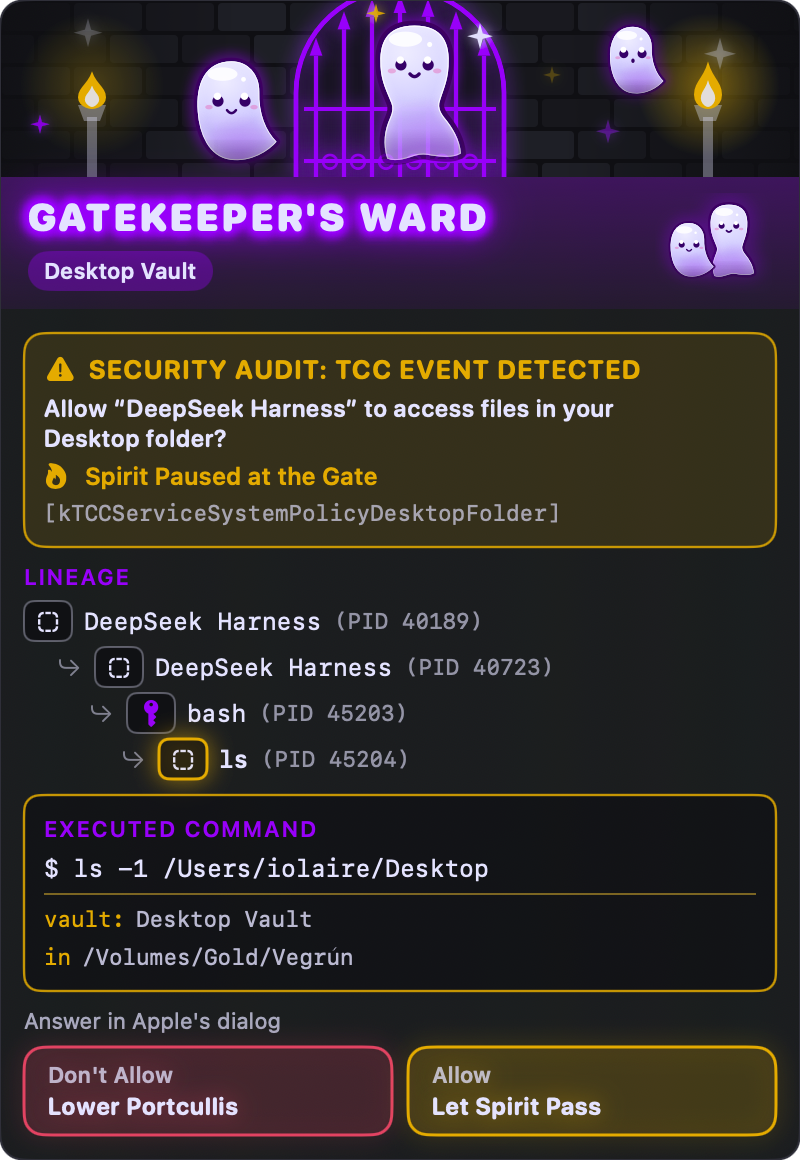
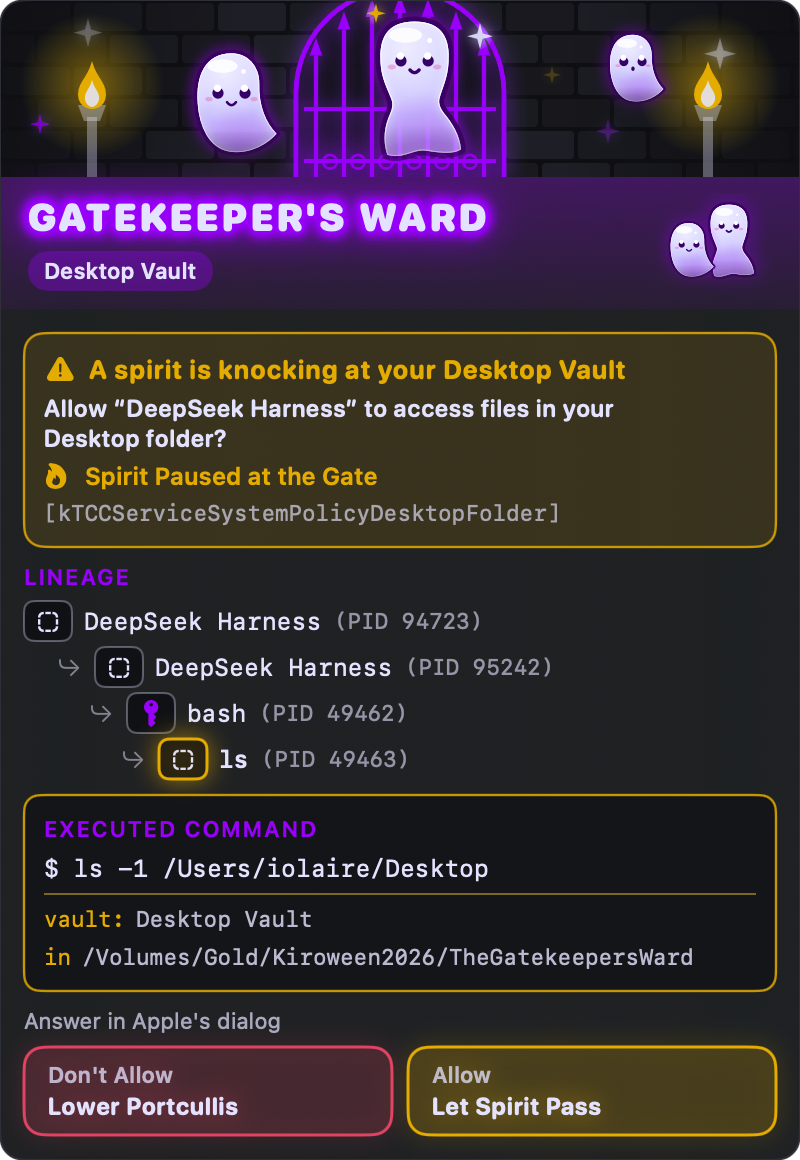
docs(demo): expand deepseek-harness documentation with env file captures and risk context
- Add env file capture manifests and screenshots for baseline and ward deepseek-harness scenarios
- Include credential file risk documentation and HUD comparison for suspicious command patterns
- Expand README with public context on Apple's tightening macOS permissions for AI agents
- Add "Why now" section documenting Nov 2026 Apple security controls, developer feedback, and enterprise concerns
- Update capture profiles, voiceover script, and narration for enhanced demo flow
- Clarify Ward's complementary role to Apple's upcoming granular permission controls
- Update Qoder microphone capture assets with latest manifest and HUD screenshots

diff --git a/docs/pitch.md b/docs/pitch.md
@@ -35,7 +35,7 @@ You're forced to **Allow** or **Don't Allow** blind.
 ├──────────────────────────────────────────────────────────────┤
 │ ⚠ Target: ~/Documents/Work/production.env   Spirit Paused   │
 │                                                              │
-│  [ Let Spirit Pass ]              [ Lower Portcullis ]       │
+│  Answer in Apple's dialog: Allow / Don't Allow               │
 └──────────────────────────────────────────────────────────────┘
 ```
 
@@ -45,9 +45,21 @@ You can now make an **informed** decision.
 
 ## Why It Matters Now (Potential Impact)
 
-Apple is working on finer-grained permissions that would give users more control over AI IDEs and agents, but that capability is not released yet. Until it ships, users have only the opaque TCC prompt. Gatekeeper's Ward fills that gap today, in unprivileged user space: no kernel extensions, no SIP changes, no restricted entitlements.
+Apple is tightening macOS permissions because of AI agents, and its new options (split permissions, folder-limited Full Disk Access, "ask every time") make users answer more prompts. Those prompts still name the app, not the command behind it. Gatekeeper's Ward gives each prompt the missing context, in unprivileged user space: no kernel extensions, no SIP changes, no restricted entitlements.
 
-It only informs. Apple's dialog keeps full control, and the user always answers with Apple's own **Allow** or **Don't Allow** button.
+**Inform-only is why teams can adopt it today.** It never blocks or modifies anything, so it cannot break a workflow or weaken a macOS security boundary. Installing it needs no system extension, no Endpoint Security entitlement and no SIP change, which is the kind of review that normally stalls a security tool. Apple's dialog keeps full control, and the user always answers with Apple's own **Allow** or **Don't Allow** button.
+
+### The problem is public, and Apple is responding
+
+| Signal | What it shows |
+|---|---|
+| Apple, macOS 27.3 beta 2 (Nov 16, 2026) | Device Control and Data Access splits in two, Full Disk Access can be limited to chosen folders, apps can be set to "ask every time". Apple: *"Before granting an app such extraordinary access, users should understand that it puts all of the data on their Mac at risk."* ([The Hacker News](https://thehackernews.com/2026/11/apple-tightens-macos-app-permissions-to.html), [TechCrunch](https://techcrunch.com/2026/11/16/apple-reveals-new-mac-security-controls-as-ai-agents-raise-privacy-risks/)) |
+| Still beta | Not in a general release. Users running agents today still get the opaque prompt. |
+| Developer discussion ([Hacker News, Oct 3](https://news.ycombinator.com/item?id=49937631)) | *"Granting terminal full disk access grants arbitrary scripts full disk access."* and *"It would be nice to limit that to a single use, or a single harness session."* |
+| Why the prompt is vague | TCC attributes a child's access to the app the user launched, so an `ls` run from a terminal appears as the terminal. The prompt cannot name the command. |
+| Enterprise and consumer concern | Broad disk access lets agents reach credentials, API keys and session tokens ([Petronella, Oct 5](https://petronellatech.com/blog/apple-plans-tighter-macos-full-disk-access-controls-over-ai-agent-data-access/)). A widely shared `r/mac` thread reports a desktop AI app listing local files including `.env` ([Jul 14](https://www.reddit.com/r/mac/comments/1uvxp9r/warning_new_chatgpt_mac_desktop_update_bypasses/)). |
+
+**Apple's changes make the Ward more useful, not less.** They decide how much access an app can hold, and "ask every time" will likely put more prompts in front of users. Based on the published descriptions, those prompts still do not say which command is behind them. Without the Ward, more prompts mean more blind clicks (prompt fatigue). With it, each prompt shows the lineage, `argv` and working directory. Apple also says previously granted permissions stay in effect, so existing grants keep needing this visibility.
 
 ### Real-device proof: DeepSeek Harness asks for the Desktop folder
 
@@ -65,7 +77,19 @@ With the baseline alone, a safe directory listing and a delete or exfiltration l
 
 ![Apple's prompt beside the Gatekeeper's Ward Fortress HUD](demo/assets/deepseek-harness/ward_deepseek_harness_desktop_pair.png)
 
-The same capture works for a second AI IDE and a different permission: Qoder asking for the Microphone ([pair shot](demo/assets/qoder/ward_qoder_microphone_pair.png)). The command there is a `swift -e` one-liner, so the HUD shows the compiler process rather than a readable command, but the lineage Qoder → zsh → swift-frontend still names the source.
+### Same kind of prompt, risky command: a credential file caught by the risk tags
+
+Apple's dialog has the same wording as in the benign case, only for the Documents folder. The agent ran `wc -c /Users/iolaire/Documents/temp_ai/vegurn/.env.prod.example`, and the HUD flags the path as a **CREDENTIAL FILE**, marks the spirit "Suspicious Spirit at the Gate", and highlights the path in Mischief Crimson. The command prints only a byte count, and the file is a `.example` template.
+
+![Apple's Documents prompt beside the Fortress HUD with a CREDENTIAL FILE risk tag](demo/assets/deepseek-harness/ward_deepseek_harness_env_file_pair.png)
+
+| | Benign (`ls` on Desktop) | Risky (`wc -c` on a `.env` file in Documents) |
+|---|---|---|
+| Apple's prompt | Desktop folder text | Documents folder text |
+| HUD status | Spirit Paused at the Gate | Suspicious Spirit at the Gate |
+| Risk tag | None | CREDENTIAL FILE, `.env.prod.example` highlighted |
+
+The same capture works for a second AI IDE and a different permission: Qoder asking for the Microphone ([pair shot](demo/assets/qoder/ward_qoder_microphone_pair.png)). Even though the request comes from an inline `swift -e` compiler run, the Ward traces the lineage Qoder → zsh → swift-frontend, so the user knows which app triggered the prompt. (Limits of this capture are in the technical notes at the end.)
 
 **Who benefits now:** developers running autonomous AI coding agents and IDEs (Kiro, Cursor, Claude Code, DeepSeek Harness), and any Mac user facing an unexpected permission popup from an app they barely recognize.
 
@@ -87,6 +111,7 @@ The process lineage tree shows each spirit carrying a contextual tool (🔍 for 
 | Zombie API | `sysctl KERN_PROCARGS2` — 20-year-old POSIX, resurrected |
 | Modern declarative | SwiftUI Fortress HUD |
 | System forensics | macOS Unified Log NDJSON streaming |
+| Risk triage | Heuristics that flag secret-hunting and exfiltration arguments in the command |
 | Target domain | Cutting-edge autonomous AI coding agents |
 
 This fits the *"stitch together a chimera of technologies"* prompt to the letter.
@@ -97,29 +122,35 @@ This fits the *"stitch together a chimera of technologies"* prompt to the letter
 
 ## Differentiators
 
+### Why nobody built this before: the core technical insight
+
+While a permission dialog is open, `tccd` does not answer the process that asked, so that process (and its parents) stays in the Darwin process table. The Ward reads `argv`, working directory and lineage from it with an unprivileged `sysctl(KERN_PROCARGS2)` call, with no race against a short-lived command. Tools that need to see brief CLI commands usually reach for Apple's Endpoint Security framework, which needs a restricted entitlement and a system extension. The prompt itself gives the Ward the window that framework would otherwise be used for. If the process has already exited, the HUD degrades to partial information with a note.
+
+The pipeline stitches four layers together: BSD buffer parsing (`KERN_PROCARGS2`), real-time Unified Log NDJSON streaming, risk triage of arguments (`.env`, `.pem`, `id_rsa`, `curl`, `base64`) and a non-activating SwiftUI `NSPanel` overlay. Risk triage is what turns a process viewer into a decision aid.
+
 ### How it compares to existing tools
 
 Gatekeeper's Ward does one narrow job: when a TCC prompt is on screen, it shows the command behind it. The tools below solve neighboring problems, and several can block things that the Ward only reports.
 
-| | Apple's TCC prompt | Little Snitch | Santa | Objective-See (LuLu, OverSight) | `log stream` by hand | **Gatekeeper's Ward** |
-|---|---|---|---|---|---|---|
-| Main job | Ask the user to allow a protected resource | Network connection firewall | Allow or block binary execution | Firewall, camera and mic use alerts, persistence checks | Read raw system logs | Explain who is behind a TCC prompt |
-| Reacts to a TCC prompt | Is the prompt | No | No | No (OverSight reports camera and mic use, not the prompt) | Yes, if you know the predicate | **Yes** |
-| Shows the child command, args and cwd | No (app name only) | No | Shows the binary, not the prompt context | No | No, needs `ps` and `lsof` follow-up | **Yes** |
-| Shows the process lineage | No | No | No | No | No | **Yes** |
-| Flags risky arguments (`.pem`, `.env`, `curl`) | No | No | No | No | No | **Yes** |
-| Can block | Yes, the user decides | Yes | Yes | Yes (LuLu) | No | No, it informs only |
-| Needs a kernel or system extension, or restricted entitlement | No | Yes (network extension) | Yes (Endpoint Security) | Yes for most | No | **No** |
+| | Apple's TCC prompt | Little Snitch | Santa | Objective-See (LuLu, OverSight) | `log stream` by hand | Agent guardrails (IDE hooks, agent permission prompts, MCP gateways) | **Gatekeeper's Ward** |
+|---|---|---|---|---|---|---|---|
+| Main job | Ask the user to allow a protected resource | Network connection firewall | Allow or block binary execution | Firewall, camera and mic use alerts, persistence checks | Read raw system logs | Gate or log the actions an agent routes through its own tool layer | Explain who is behind a TCC prompt |
+| Reacts to a TCC prompt | Is the prompt | No | No | No (OverSight reports camera and mic use, not the prompt) | Yes, if you know the predicate | No | **Yes** |
+| Shows the child command, args and cwd | No (app name only) | No | Shows the binary, not the prompt context | No | No, needs `ps` and `lsof` follow-up | Only what a cooperating agent reports | **Yes** |
+| Shows the process lineage | No | No | No | No | No | No | **Yes** |
+| Flags risky arguments (`.pem`, `.env`, `curl`) | No | No | No | No | No | Varies, only for tool calls it sees | **Yes** |
+| Can block | Yes, the user decides | Yes | Yes | Yes (LuLu) | No | Yes, for supported agents | No, it informs only |
+| Needs a kernel or system extension, or restricted entitlement | No | Yes (network extension) | Yes (Endpoint Security) | Yes for most | No | No | **No** |
 
-*Summary based on each project's public documentation. Verify a row before quoting it elsewhere.*
+*Based on each project's public documentation.*
 
+**Agent-agnostic and OS-boundary native.** Agent guardrails only see what a cooperating, supported agent routes through them. The Ward watches the macOS boundary instead, so it covers Cursor, Claude Code, Kiro, DeepSeek Harness, a script run from a package install hook, or an unvetted MCP server, whenever the process touches a TCC-protected resource and the prompt appears.
 
-- **No kernel extension required** — pure userspace, ships as a notarised `.app`
+- **No kernel extension required** — pure userspace Swift `.app` that builds from source with zero restricted entitlements
 - **No SIP bypass** — zero security compromise required to install or run
 - **Open source** — developers can audit and trust it
 - **Zero config** — install, launch, done
 - **Real-time** — HUD appears the instant the permission dialog fires, not after
-- **Process suspension insight** — `tccd` blocks the child process thread while waiting; the process is frozen in the table, so `sysctl` inspection is always reliable
 
 ---
 
@@ -150,9 +181,17 @@ Gatekeeper's Ward does one narrow job: when a TCC prompt is on screen, it shows 
 |---|---|---|
 | 0:00–0:35 | AI agent running + opaque TCC modal | *"Modern agents work fast but macOS blinds us. You're forced to guess."* |
 | 0:35–1:15 | Same trigger — Fortress HUD slides in alongside Apple's dialog | *"Gatekeeper's Ward unmasks the intruder instantly."* |
-| 1:15–2:00 | Code walkthrough: `sysctl KERN_PROCARGS2` + Unified Log | *"Zero dark magic. No kernel extensions. We resurrect 20-year-old POSIX APIs."* |
+| 1:15–2:00 | Code walkthrough: `sysctl KERN_PROCARGS2` + Unified Log. Then a 10–15 s Kiro beat: `.kiro/specs/` folders, hooks, steering, and the property-based tests on the `KERN_PROCARGS2` and log parsers passing | *"Zero dark magic. No kernel extensions. We resurrect 20-year-old POSIX APIs. Specs, hooks and property-based tests built it with Kiro."* |
 | 2:00–2:35 | Menu bar ghost, history dropdown, risk tags on suspicious args | *"Full lineage tree, process history, automatic risk tagging."* |
-| 2:35–3:00 | Impact: before/after pair, Apple's finer-grained permissions not shipped yet, Apache 2.0 repo link | *"Apple's finer-grained agent permissions aren't here yet. The Ward is. Know who knocks before you drop the castle gates."* |
+| 2:35–3:00 | Impact: before/after pair, Apple's macOS 27.3 beta controls (still unreleased) answer how much access, the Ward answers which command, Apache 2.0 repo link | *"Apple is tightening agent permissions, and it is still in beta. Even then, the prompt will not tell you which command is asking. The Ward does. Know who knocks before you drop the castle gates."* |
+
+---
+
+## Technical notes and limits
+
+- The Qoder Microphone capture runs through an inline `swift -e` compiler, so the HUD shows the compiler process (`swift-frontend`) instead of a readable command. The lineage still identifies Qoder.
+- Parsing depends on TCC log wording, which changes between macOS versions. A regex fallback on `eventMessage` covers wording drift. The real-device captures come from one macOS version.
+- The Ward informs only. It cannot press or block Apple's buttons.
 
 ---
 

diff --git a/docs/devlog.md b/docs/devlog.md
@@ -3,6 +3,18 @@
 Running notes from the build. Newest entries at the top.
 
 ---
+## 2026-11-23 (14:45 UTC) — Day 19: Recaptured DeepSeek Desktop and Qoder Microphone with the current HUD
+**iolaire (pairing with Kiro)**
+Re-ran `deepseek-harness desktop` (baseline and Ward) and `qoder microphone` so the README and pitch images show the current HUD ("Answer in Apple's dialog" footer, plain-language header). The Qoder Ward run took several tries. In an old Qoder chat, the agent had saved a note that `swift -e` microphone probes return false and ran the command in the background, which returned `false` with no prompt. The run that worked started from a fresh task in the TheGatekeepersWard workspace, opened by hand. On that screen, the framework's `find:text area` search took about 80 s, probably because of the sessions heatmap, but it finished. Prompt detection recorded 16×14 bounds (likely the "?" button), and the full-screen shot was taken before the HUD appeared, so the published `pair.png` was cropped wrongly. It was replaced with a frame from that run's `flow.mov` at 83 s, cropped to the prompt and HUD. The pair is a real frame from the same session, not a composite. The local `ward_qoder_microphone_screen.png` (gitignored) is now the full 83 s frame. The Qoder baseline from this round was unusable: a second DeepSeek Desktop prompt stayed on screen for the whole recording, so the framework saved DeepSeek's dialog as Qoder's baseline. The baseline prompt shot and manifest were restored from git (the Nov 22 capture). A baseline shows only Apple's prompt, so the HUD update does not affect it. The local baseline `flow.mov` and `_screen.png` are still the bad ones and should not be used for the video. Follow-ups: tighten prompt-bounds detection in `scripts/capture/lib/runner_steps.sh` to ignore tiny child elements, and decide whether the Qoder profile should open a new task automatically.
+---
+## 2026-11-23 (13:05 UTC) — Day 19: Risk-tag capture with DeepSeek Harness
+**iolaire (pairing with Kiro)**
+Added an `env-file` risk-tag scenario to `scripts/capture/profiles/deepseek-harness.profile` and ran it end to end (baseline, then Ward). An earlier `ls -1 ~/.aws ~/Desktop` attempt showed a SECRET PATH tag but needed Desktop to raise the prompt, because `~/.aws` is not TCC-protected, so it was dropped. The scenario runs `wc -c` on `~/Documents/temp_ai/vegurn/.env.prod.example`: one path in a protected folder, flagged CREDENTIAL FILE. An `ls -l` on a single file raised no prompt, because `stat` is not gated by TCC, so the scenario uses `wc -c`, which opens the file and prints only a byte count. A first Ward run put the HUD on the portrait display; moving the pointer to the main display before the run fixed it. The README and pitch use the `env-file` pair. The framework required stopping a dev-build Ward that was already running. The capture was on macOS 27.2.1.
+---
+## 2026-11-23 (12:50 UTC) — Day 19: Impact messaging tied to Apple's macOS 27.3 beta
+**iolaire (pairing with Kiro)**
+Added a "Why now" section to the README Potential Impact text and a matching signals table to `docs/pitch.md`. It cites Apple's Nov 16 macOS 27.3 beta 2 controls (split permissions, folder-limited Full Disk Access, "ask every time"), the Hacker News Full Disk Access thread, and the enterprise and Reddit coverage. The demo-flow closing line now says Apple's controls are still in beta and do not name the command behind a prompt. The Hacker News article and thread were fetched and the Apple quote and two commenter quotes match. The TechCrunch, Petronella and Reddit links are cited from the research notes and were not re-fetched. The claim that Apple's beta does not show the command is worded "based on the published descriptions" because it has not been tested on a 27.3 machine. Second pass on the pitch from review feedback: Apple's changes are framed as raising the Ward's value (more prompts, same missing context), inform-only is framed as the reason it can be adopted today, the Process-suspension insight is now its own "core technical insight" block, the comparison table gained an agent-guardrails column, the ASCII mockup no longer shows clickable buttons, the unverified "notarised" claim was replaced, the Qoder caveat moved to a technical-notes section, and the demo flow has a Kiro beat. Still to do: capture a real risky-command prompt (for example `rg` on a `.env` file), update `docs/demo/remotion/src/narration.json` and `VOICEOVER.md` scene 1 and the closing scene to match, then re-render the audio.
+---
 ## 2026-11-23 (04:00 UTC) — Third-party names notice
 
 **iolaire (pairing with Kiro)**
@@ -154,9 +166,18 @@ Closed the open question of whether Gemini-generated images may ship in the proj
 
 ---
 
+## 2026-11-21 (17:37 UTC) — Day 17: Dharshaneshwaran makes the HUD copy plain language
+**Dharshaneshwaran (pairing with Kiro)**
+Four commits on `feature/hud-plain-language-copy` (17:23 to 17:37 UTC) closed the open item from the Day 6 notes: a clearer title than "TCC EVENT DETECTED" for people who do not know the term. The branch was merged into `main` on Nov 23 (02:30 UTC, `79e4573`).
+- **Spec first.** `.kiro/specs/hud-plain-language-copy` (requirements, design, tasks) was written before the code (`a63efa2`). It amends requirements 3.3 and 3.7 of `castle-keep-visual-theme`, and only changes displayed text and layout. Detection, inspection and risk tagging are untouched.
+- **Banner title.** The amber banner now reads "A spirit is knocking at your Documents Vault", built from `TCCService.vaultName` for every service, including "Unknown Vault" (`e17fdc1`). The title wraps to a second line instead of dropping below 11 pt.
+- **Risk reasons.** The Risk Legend changed from a wrapped row of crimson chips to one line per category, each with a short reason, such as "Can send data off your Mac." for a network tool (`2c548c5`). Every reason is at most 40 characters so it fits on one line at the 400 pt card width. The VoiceOver label reads each category with its reason.
+- **Docs.** The UI copy table in `.kiro/steering/swiftui-hud-design.md` and the `castle-keep-visual-theme` spec list the new title and reasons. The README screenshot was refreshed to show both (`be3e747`).
+- **Tests.** New cases in `HUDContentTests` and `HUDSectionTests` cover the title and the legend rows.
+---
 ## 2026-11-20 (08:00 UTC) — Day 16: Dharshaneshwaran re-runs the hackathon review and fixes the README
 
-**Dharshaneshwaran**
+**Dharshaneshwaran (pairing with Kiro)**
 
 Two docs-only commits arrived through PR #2 (`dev` into `main`). The first re-ran the `/code-review-hackathon` prompt and refreshed `docs/HACKATHON_REVIEW.md`. The second fixed the README items that review flagged.
 
@@ -348,7 +369,7 @@ The 14:06 UTC entry below lists these items as open follow-ups; that was true wh
 
 ## 2026-11-09 (14:06 UTC) — Day 5: Dharshaneshwaran's branch meets main
 
-**Dharshaneshwaran**
+**Dharshaneshwaran (pairing with Kiro)**
 
 While iolaire was adding eight triggers to WardTrigger on `main`, the `dev` branch was still on the three-service parser. Dharshaneshwaran merged `main` into `dev` and found the HUD no longer compiled: `TCCService` had gained cases for Downloads, Calendar, Reminders, Photos, Camera and Screen Capture, and the HUD's vault-name `switch` is exhaustive. Dharshaneshwaran added the six vault names (`2e1b562`), so every WardTrigger service now gets its own lore copy in the HUD instead of "Unknown Vault".
 
@@ -396,7 +417,7 @@ WardTrigger only covered three TCC services (Documents, Contacts, Microphone). T
 
 ## 2026-11-08 (08:52 UTC) — Day 4: Phase 2 and 3 land on the dev branch
 
-**Dharshaneshwaran**
+**Dharshaneshwaran (pairing with Kiro)**
 
 The whole runtime pipeline went in on a separate `dev` branch, in three commits across the morning (07:27 and 08:52 UTC). It was not visible on `main` until the Nov 9 merge, which is why the Day 5 notes below still call the inspector, watcher and HUD unbuilt.
 

diff --git a/README.md b/README.md
@@ -12,9 +12,19 @@
 
 Autonomous AI IDEs, coding harnesses, and ordinary Mac apps trigger macOS TCC permission prompts that say which *app* wants access and nothing about *what it intends to do*. The user has to gamble on **Allow**, and that click can give an autonomous agent a shell-driven path into `~/Desktop`, `~/Documents`, Contacts, or the Camera.
 
-Apple is working on finer-grained permissions that would give users more control over AI IDEs and agents, but that capability is not released yet. Gatekeeper's Ward covers the gap **today**. It runs entirely in unprivileged user space: no kernel extensions, no SIP changes, no restricted entitlements, no security bypasses.
+Apple is tightening these permissions because of AI agents, and its new options will put more prompts in front of users. Those prompts still name the app, not the command. Gatekeeper's Ward gives each one the missing context. It runs entirely in unprivileged user space: no kernel extensions, no SIP changes, no restricted entitlements, no security bypasses.
 
-**Safety model:** Gatekeeper's Ward only informs and never blocks. Apple's native dialog keeps full control, and the user always answers with Apple's own **Allow** or **Don't Allow** button.
+### Why now: the problem is public, and Apple is responding
+
+- **Apple is tightening controls because of AI agents.** On Nov 16, 2026, Apple previewed new controls in **macOS 27.3 beta 2**: Device Control and Data Access splits into two settings, Full Disk Access can be limited to chosen folders, and apps can be set to "ask every time". Apple's statement: *"Before granting an app such extraordinary access, users should understand that it puts all of the data on their Mac at risk."* ([The Hacker News, Nov 17](https://thehackernews.com/2026/11/apple-tightens-macos-app-permissions-to.html); [TechCrunch, Nov 16](https://techcrunch.com/2026/11/16/apple-reveals-new-mac-security-controls-as-ai-agents-raise-privacy-risks/))
+- **It is still beta.** The changes are not in a general release, so users running agents today still face the opaque prompt.
+- **Developers name the gap.** In a Hacker News thread on Full Disk Access ([Oct 3, 2026](https://news.ycombinator.com/item?id=49937631)), one commenter writes: *"Granting terminal full disk access grants arbitrary scripts full disk access."* Another: *"Once I grant iTerm access to Documents for whatever reason, it always has such permission. It would be nice to limit that to a single use, or a single harness session."*
+- **The prompt names the app, by design.** Commenters in the same thread explain that TCC attributes a child's file access to the app the user launched, so an `ls` run from a terminal appears as the terminal. A prompt for an agent harness therefore cannot say which command it is answering for.
+- **The concern reaches beyond developers.** Enterprise analysts warn that agents with broad disk access can reach stored credentials, API keys and session tokens ([Petronella Technology Group, Oct 5](https://petronellatech.com/blog/apple-plans-tighter-macos-full-disk-access-controls-over-ai-agent-data-access/)), and a widely shared `r/mac` thread ([July 14](https://www.reddit.com/r/mac/comments/1uvxp9r/warning_new_chatgpt_mac_desktop_update_bypasses/)) reports a desktop AI app listing local files, including dotfiles such as `.env`.
+
+**Complementary to Apple's changes.** Apple's controls decide *how much* access an app can hold: split permissions, folder limits, ask every time. Based on the published descriptions, they do not state *which command* is behind a given prompt. Gatekeeper's Ward shows that: the process lineage, the executed command (`argv`), the working directory and risky-argument tags. "Ask every time" will likely mean more prompts, and without the command behind each one that becomes prompt fatigue and blind clicks. With the Ward, each prompt is an informed decision.
+
+**Safety model:** Gatekeeper's Ward only informs and never blocks, which is why it can be adopted today: it cannot break a workflow or weaken a macOS security boundary. Apple's native dialog keeps full control, and the user always answers with Apple's own **Allow** or **Don't Allow** button.
 
 ### Before vs. after, on a real Mac
 
@@ -39,6 +49,14 @@ A real capture of DeepSeek Harness asking for the Desktop folder. Same prompt, s
 | Who decides | The user, via Apple's dialog | The user, via Apple's dialog (the HUD says "Answer in Apple's dialog") |
 
 Original captures, flow recordings and manifests are in [docs/demo/assets/deepseek-harness/](docs/demo/assets/deepseek-harness/).
+
+**A risky command: the same prompt, a different command**
+
+The prompt on the left is identical to the benign `ls` case above, but this time the agent ran `wc -c /Users/iolaire/Documents/temp_ai/vegurn/.env.prod.example` against the Documents folder. The HUD flags the path as a **CREDENTIAL FILE** ("Usually holds passwords or API keys"), marks the spirit "Suspicious Spirit at the Gate", and highlights the path in the command in Mischief Crimson. The command prints only a byte count, and the file is a `.example` template, so no secrets were involved.
+
+![Apple's Documents folder prompt beside the Fortress HUD showing a CREDENTIAL FILE risk tag and the .env.prod.example path highlighted in the executed command](docs/demo/assets/deepseek-harness/ward_deepseek_harness_env_file_pair.png)
+
+Apple's dialog alone reads the same for this command and for a harmless one. The HUD is what separates them.
 
 **A second AI IDE and permission: Qoder asking for the Microphone**
 

diff --git a/docs/demo/remotion/VOICEOVER.md b/docs/demo/remotion/VOICEOVER.md
@@ -14,10 +14,10 @@ The spoken copy uses spelled-out letters ("A I", "H U D", "T C C") so the scratc
 ## Scene 1: Intro, Hook and Immediate Need
 - **ID:** `scene-01-intro`
 - **Timecode:** 0:00-0:26
-- **Impact point:** Real-world need: opaque prompts, blind Allow, Apple's fix not shipped.
+- **Impact point:** Real-world need: opaque prompts, blind Allow, Apple's new controls still do not name the command.
 - **Visual cues:** Title card with the ghost mascot. Right column reveals: a generic macOS prompt, `$ ???` marked UNKNOWN, an amber "Apple: not released yet" card, then a violet "Gatekeeper's Ward: Today" card.
 
-> Every day, autonomous A I coding tools and random Mac apps throw up a system permission popup. It names the app. It never says what that app is about to do. One blind click on Allow can hand an autonomous agent your Desktop, your Documents, even your camera. Apple is working on finer grained permissions for A I tools, but they are not released yet. Gatekeeper's Ward fills that gap today.
+> Every day, autonomous A I coding tools and random Mac apps throw up a system permission popup. It names the app. It never says what that app is about to do. One blind click on Allow can hand an autonomous agent your Desktop, your Documents, even your camera. Apple is tightening these permissions for A I agents, but the new prompts still name only the app, not the command. Gatekeeper's Ward fills in the missing context today.
 
 ## Scene 2: Baseline Flow
 - **ID:** `scene-02-baseline`

diff --git a/docs/demo/assets/deepseek-harness/deepseek_harness_env_file_summary.md b/docs/demo/assets/deepseek-harness/deepseek_harness_env_file_summary.md
@@ -1,0 +1,9 @@
+# deepseek-harness / env-file (20261123T141605Z)
+
+| Baseline | Ward |
+| --- | --- |
+| [flow.mov](baseline_deepseek_harness_env_file_flow.mov) | [flow.mov](ward_deepseek_harness_env_file_flow.mov) |
+| [prompt.png](baseline_deepseek_harness_env_file_prompt.png) | [hud.png](ward_deepseek_harness_env_file_hud.png) |
+| [screen.png](baseline_deepseek_harness_env_file_screen.png) | [pair.png](ward_deepseek_harness_env_file_pair.png) |
+|  | [prompt.png](ward_deepseek_harness_env_file_prompt.png) |
+|  | [screen.png](ward_deepseek_harness_env_file_screen.png) |

diff --git a/docs/demo/assets/deepseek-harness/deepseek_harness_desktop_summary.md b/docs/demo/assets/deepseek-harness/deepseek_harness_desktop_summary.md
@@ -1,4 +1,4 @@
-# deepseek-harness / desktop (20261123T005354Z)
+# deepseek-harness / desktop (20261123T142158Z)
 
 | Baseline | Ward |
 | --- | --- |
